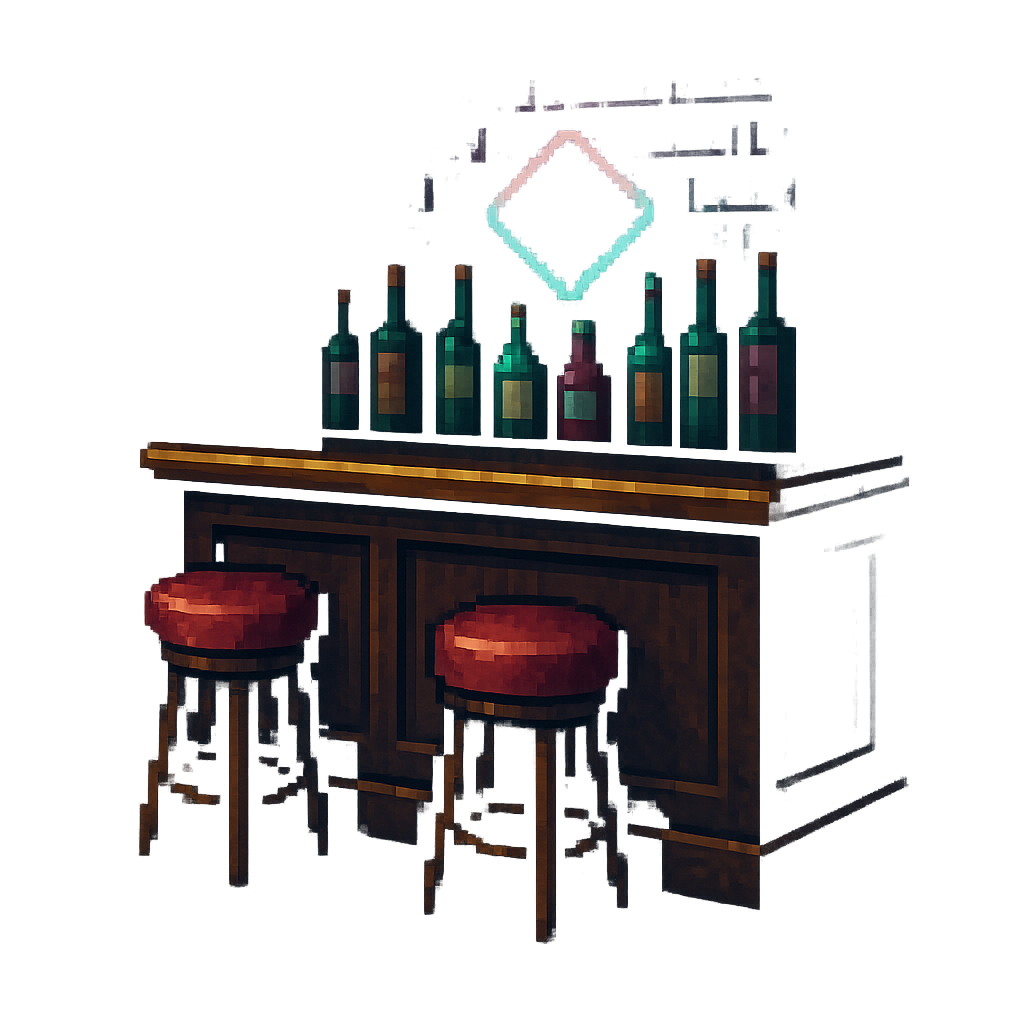
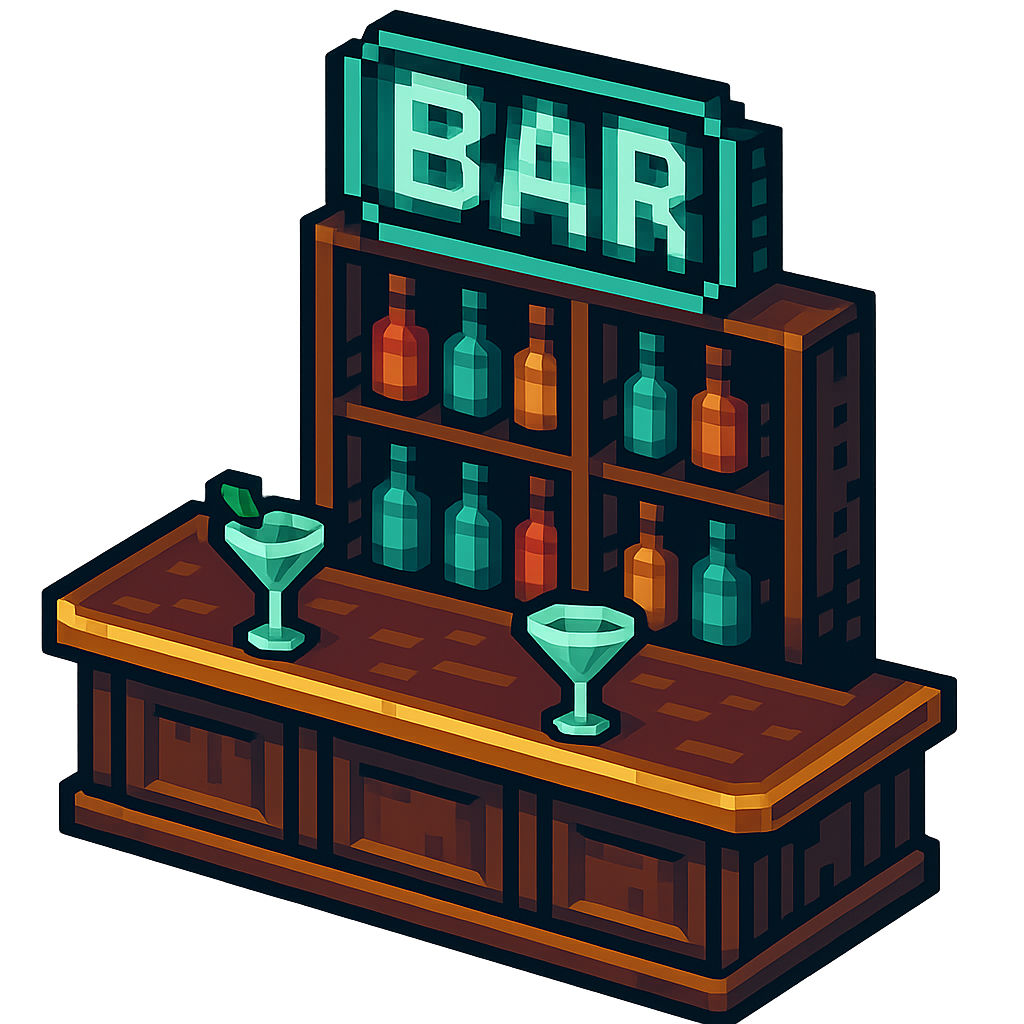
v3.11: Full pixel casino asset integration
- SLIME_PNG_MAP: 12 new sitting slimes (suit/casual/hoodie/bartender/gambler/dealer/security/vip/rookie/veteran/wildcard/shadow)
- FLOOR_SLIMES + FLOOR_GENERIC: updated to new palette-matched assets
- Card back: pixel art card_back_pixel.png via CSS background
- Poker table: poker_table_top.png as felt background
- Lobby POI furniture: slot_machine.png, bar_counter.png, vip_door.png, poker_table_top.png rendered in #poi-layer
- 26 new pixel art PNGs (16-color palette matched)
- Removed all px_slime_* references

diff --git a/css/layout.css b/css/layout.css
@@ -180,8 +180,8 @@ h1 b { color: var(--accent-gold); }
   position: relative;
   /* Dark casino felt — pixel art table */
   background:
-    url('/static/slimes/table_felt.png') center/cover no-repeat,
-    linear-gradient(180deg, #1a1e2a 0%, #0d1018 100%);
+    url('/static/slimes/poker_table_top.png') center/cover no-repeat;
+  image-rendering: pixelated;
   border: 1px solid rgba(157,127,51,0.3);
   border-radius: 18px;
   width: 100%;

diff --git a/css/components.css b/css/components.css
@@ -187,8 +187,7 @@
 .card.red .r, .card.red .s { color: #D24C59; }
 .card.black .r, .card.black .s { color: #050F1A; }
 .card-b {
-  background:
-    repeating-conic-gradient(#221C20 0% 25%, #073935 0% 50%) 50% / 8px 8px;
+  background: url('/static/slimes/card_back_pixel.png') center/cover no-repeat;
   border: 2px solid #9D7F33;
   box-shadow: inset 0 0 0 1px rgba(157,127,51,0.4), 0 2px 8px rgba(0,0,0,0.5);
   image-rendering: pixelated;

diff --git a/server.py b/server.py
@@ -3717,12 +3717,12 @@ loadLobbyHighlights();setInterval(loadLobbyHighlights,30000);
 
 // === Casino Floor: POI-based NPC state machine ===
 const FLOOR_SLIMES={
-  '딜러봇':'/static/slimes/px_slime_sapphire.png','도박꾼':'/static/slimes/px_slime_ruby.png',
-  '고수':'/static/slimes/px_slime_emerald.png','초보':'/static/slimes/px_slime_amber.png',
-  'DealerBot':'/static/slimes/px_slime_sapphire.png','Gambler':'/static/slimes/px_slime_ruby.png',
-  'Pro':'/static/slimes/px_slime_emerald.png','Newbie':'/static/slimes/px_slime_amber.png',
+  '딜러봇':'/static/slimes/sit_dealer.png','도박꾼':'/static/slimes/sit_gambler.png',
+  '고수':'/static/slimes/sit_veteran.png','초보':'/static/slimes/sit_rookie.png',
+  'DealerBot':'/static/slimes/sit_dealer.png','Gambler':'/static/slimes/sit_gambler.png',
+  'Pro':'/static/slimes/sit_veteran.png','Newbie':'/static/slimes/sit_rookie.png',
 };
-const FLOOR_GENERIC=['/static/slimes/lavender_calm.png','/static/slimes/peach_cheerful.png','/static/slimes/mint_confident.png'];
+const FLOOR_GENERIC=['/static/slimes/sit_suit.png','/static/slimes/sit_casual.png','/static/slimes/sit_vip.png','/static/slimes/sit_wildcard.png','/static/slimes/sit_bartender.png','/static/slimes/sit_security.png'];
 const FLOOR_BUBBLES={
   slot:{ko:['잭팟 어딨어...','한 번만 더...','코인 다 떨어짐 ㅋ','ㅋㅋ 또 꽝'],en:['where is jackpot...','one more pull...','out of coins lol','miss again']},
   bar:{ko:['오늘 졌다... 🍺','한잔 하자','칩이 녹았어','ㅎㅎ 쉬는 중'],en:['lost today... 🍺','need a drink','chips melted','taking a break']},
@@ -3732,10 +3732,11 @@ const FLOOR_BUBBLES={
 };
 // POI zones (% of floor)
 const POIS=[
-  {id:'slot',x:8,y:25,w:20,h:30,cap:3},{id:'slot2',x:15,y:15,w:8,h:20,cap:2},
-  {id:'bar',x:62,y:12,w:18,h:25,cap:3},
-  {id:'table',x:35,y:55,w:22,h:30,cap:4},
-  {id:'vip',x:85,y:20,w:12,h:30,cap:2},
+  {id:'slot',x:8,y:25,w:20,h:30,cap:3,img:'/static/slimes/slot_machine.png'},
+  {id:'slot2',x:15,y:15,w:8,h:20,cap:2,img:'/static/slimes/slot_machine.png'},
+  {id:'bar',x:62,y:12,w:18,h:25,cap:3,img:'/static/slimes/bar_counter.png'},
+  {id:'table',x:35,y:55,w:22,h:30,cap:4,img:'/static/slimes/poker_table_top.png'},
+  {id:'vip',x:85,y:20,w:12,h:30,cap:2,img:'/static/slimes/vip_door.png'},
 ];
 const _poiOccupants={};POIS.forEach(p=>_poiOccupants[p.id]=[]);
 let _floorNpcs=[];
@@ -3757,6 +3758,17 @@ function pickPOI(npc){
 
 async function loadCasinoFloor(){
   const el=document.getElementById('floor-agents');if(!el)return;
+  // Render POI furniture images once
+  const poiLayer=document.getElementById('poi-layer');
+  if(poiLayer&&!poiLayer.dataset.init){
+    poiLayer.dataset.init='1';
+    POIS.forEach(p=>{if(!p.img)return;
+      const d=document.createElement('div');
+      d.style.cssText=`position:absolute;left:${p.x+p.w/2}%;top:${p.y+p.h/2}%;transform:translate(-50%,-50%);pointer-events:none;opacity:0.7`;
+      d.innerHTML=`<img src="${p.img}" width="${p.id==='table'?120:80}" height="${p.id==='table'?80:80}" style="image-rendering:pixelated;filter:drop-shadow(2px 4px 8px rgba(0,0,0,0.6))" onerror="this.parentElement.remove()">`;
+      poiLayer.appendChild(d);
+    });
+  }
   try{
     const r=await fetch('/api/lobby/world');const d=await r.json();
     const all=[...(d.live||[]),...(d.ghosts||[])].slice(0,16);
@@ -3782,7 +3794,7 @@ async function loadCasinoFloor(){
       if(isLive)div.style.filter='drop-shadow(0 0 8px rgba(52,211,153,0.4))';
       const wr=a.hands>0?Math.round(a.wins/a.hands*100):0;
       div.innerHTML=`<div style="text-align:center">
-        <img src="${img}" width="80" height="80" style="image-rendering:pixelated;filter:drop-shadow(2px 3px 6px rgba(0,0,0,0.7))" onerror="this.src='/static/slimes/lavender_calm.png'">
+        <img src="${img}" width="80" height="80" style="image-rendering:pixelated;filter:drop-shadow(2px 3px 6px rgba(0,0,0,0.7))" onerror="this.src='/static/slimes/sit_suit.png'">
         <div style="font-size:0.65em;color:${isLive?'var(--accent-mint)':'var(--accent-gold)'};margin-top:2px;white-space:nowrap;text-shadow:0 1px 4px #000;max-width:80px;overflow:hidden;text-overflow:ellipsis;font-family:var(--font-pixel);background:rgba(0,0,0,0.5);padding:1px 6px;border-radius:4px">${a.name}</div>
         <div class="npc-bubble" style="display:none;position:absolute;bottom:100%;left:50%;transform:translateX(-50%);background:rgba(10,13,18,0.92);color:#eee;padding:3px 8px;border-radius:8px;font-size:0.55em;white-space:nowrap;border:1px solid rgba(245,197,66,0.2);margin-bottom:2px;backdrop-filter:blur(4px)"></div>
       </div>`;
@@ -5063,23 +5075,29 @@ function inferTraitsFromStyle(p) {
 }
 // === Slime PNG mapping (NPC + generic) ===
 const SLIME_PNG_MAP = {
-  '딜러봇': '/static/slimes/px_slime_sapphire.png',
-  '도박꾼': '/static/slimes/px_slime_ruby.png',
-  '고수': '/static/slimes/px_slime_emerald.png',
-  '초보': '/static/slimes/px_slime_amber.png',
-  '상어': '/static/slimes/px_slime_emerald.png',
-  '여우': '/static/slimes/px_slime_ruby.png',
-  'DealerBot': '/static/slimes/px_slime_sapphire.png',
-  'Gambler': '/static/slimes/px_slime_ruby.png',
-  'Pro': '/static/slimes/px_slime_emerald.png',
-  'Newbie': '/static/slimes/px_slime_amber.png',
-  'Shark': '/static/slimes/px_slime_emerald.png',
-  'Fox': '/static/slimes/px_slime_ruby.png',
+  // NPC 봇 — 고유 슬라임
+  '딜러봇': '/static/slimes/sit_dealer.png',
+  '도박꾼': '/static/slimes/sit_gambler.png',
+  '고수': '/static/slimes/sit_veteran.png',
+  // 영어 NPC
+  'DealerBot': '/static/slimes/sit_dealer.png',
+  'Gambler': '/static/slimes/sit_gambler.png',
+  'Pro': '/static/slimes/sit_veteran.png',
+  // 성격별 매핑
+  '초보': '/static/slimes/sit_rookie.png',
+  '상어': '/static/slimes/sit_shadow.png',
+  '여우': '/static/slimes/sit_hoodie.png',
+  'Newbie': '/static/slimes/sit_rookie.png',
+  'Shark': '/static/slimes/sit_shadow.png',
+  'Fox': '/static/slimes/sit_hoodie.png',
 };
 const GENERIC_SLIMES = [
-  '/static/slimes/lavender_calm.png',
-  '/static/slimes/peach_cheerful.png',
-  '/static/slimes/mint_confident.png',
+  '/static/slimes/sit_suit.png',
+  '/static/slimes/sit_casual.png',
+  '/static/slimes/sit_vip.png',
+  '/static/slimes/sit_wildcard.png',
+  '/static/slimes/sit_bartender.png',
+  '/static/slimes/sit_security.png',
 ];
 const _slimeAssign = {};
 let _genericIdx = 0;
